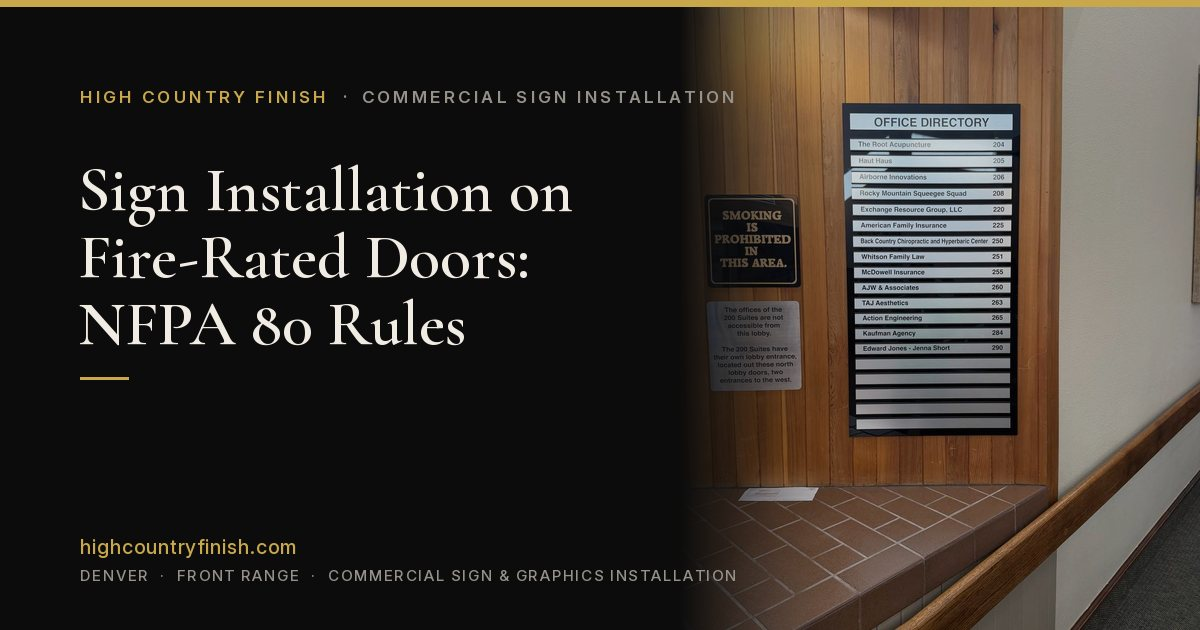
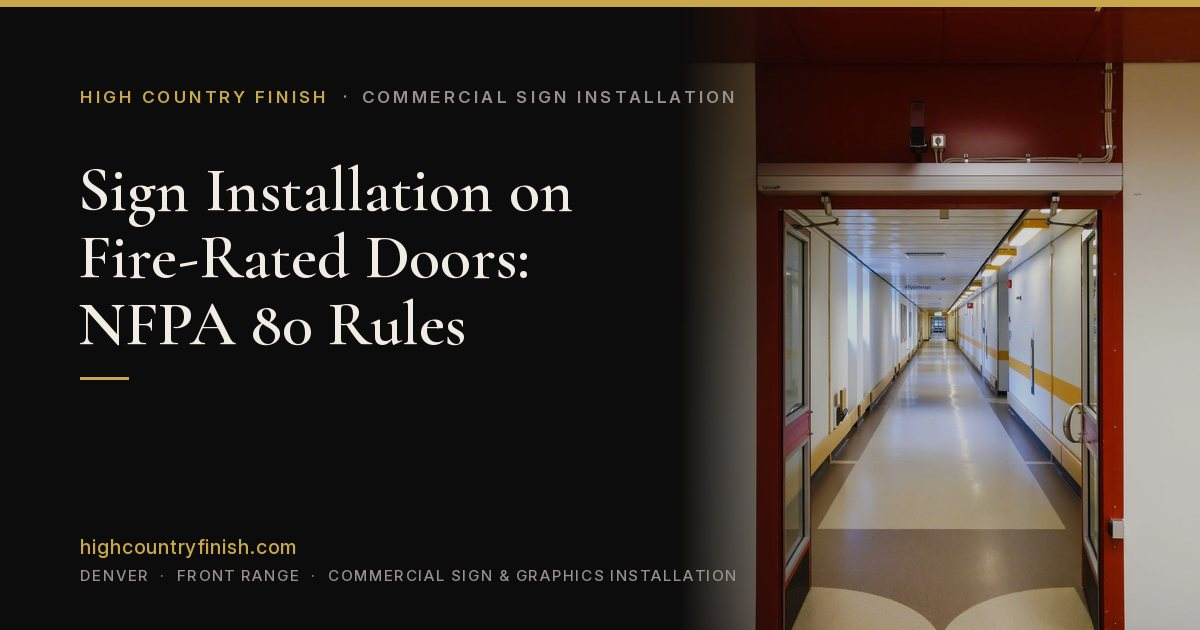
Use public-domain hospital and stairwell photos in the fire-door post
Replace the office-directory figure in the NFPA 80 fire door post with two
CC0 photos: a hospital corridor with cross-corridor doors (Norra Älvsborg
County Hospital, Sweden) as the lead figure and share card, and a stairwell
fire door with stair signage mounted on the wall beside it as a second
figure. Captions credit the photographers and label the photos as public
domain so they are not mistaken for portfolio work.

- images/hospital-corridor-fire-doors.jpg and stairwell-fire-door-signage.jpg
  with 480/800/full WebP variants
- images/og/post-fire-rated-doors.jpg regenerated from the hospital photo
- docs/IMAGE_CREDITS.md records sources, licenses and two reviewed alternates
- sitemap.xml regenerated (both figures added as image entries)

Claude-Session: https://claude.ai/code/session_01UP6HA74CZcYXjqbdAXmKWR

diff --git a/blog/sign-installation-on-fire-rated-doors.html b/blog/sign-installation-on-fire-rated-doors.html
@@ -293,8 +293,8 @@ article a.cta-button:hover { text-decoration: none; }
       <p>Healthcare is stricter for longer. Hospitals, surgery centers, and nursing facilities that answer to CMS follow the 2012 Life Safety Code, which references the 2010 edition of NFPA 80, so their doors are held to the adhesive-only, 5 percent rule regardless of what the city adopts. In every case, the fire marshal (the authority having jurisdiction) has the final word on anything unusual, and it is worth asking before the vinyl is printed rather than after.</p>
 
       <figure class="post-figure">
-        <picture><source type="image/webp" srcset="/images/webp/office-directory-480.webp 480w, /images/webp/office-directory-800.webp 800w, /images/webp/office-directory.webp 960w" sizes="(max-width: 768px) 100vw, 720px"/><img src="/images/office-directory.jpg" width="960" height="1280" alt="Office directory and informational signage installed in a Denver building lobby" loading="lazy"/></picture>
-        <figcaption>Informational signage in a Denver office lobby. On a rated door, the same signs would have to fit inside a 5 percent area budget and go on with adhesive.</figcaption>
+        <picture><source type="image/webp" srcset="/images/webp/hospital-corridor-fire-doors-480.webp 480w, /images/webp/hospital-corridor-fire-doors-800.webp 800w, /images/webp/hospital-corridor-fire-doors.webp 960w" sizes="(max-width: 768px) 100vw, 720px"/><img src="/images/hospital-corridor-fire-doors.jpg" width="960" height="1280" alt="Hospital corridor seen through a set of red-framed cross-corridor doors held open at Norra Älvsborg County Hospital in Sweden" loading="lazy"/></picture>
+        <figcaption>Cross-corridor doors at Norra Älvsborg County Hospital in Trollhättan, Sweden. Hospital corridors are divided into fire and smoke compartments by door sets like this one, which is why healthcare holds signage to the strictest edition of NFPA 80. Public domain photo (CC0) by Ann-Sophie Qvarnström via Flickr.</figcaption>
       </figure>
 
       <h2>What This Means for Common Requests</h2>
@@ -305,6 +305,11 @@ article a.cta-button:hover { text-decoration: none; }
       <li><strong>Stairwell identification and egress signage.</strong> These are code-required and usually mounted on the wall beside the door. Where a jurisdiction wants them on the door itself, the same attachment and area rules apply.</li>
       <li><strong>Elevator hoistway doors.</strong> A separate category governed by the elevator code and the elevator inspector. Vinyl elevator door wraps are common in commercial buildings, but get the building's elevator contractor to sign off before wrapping them.</li>
       </ul>
+
+      <figure class="post-figure">
+        <picture><source type="image/webp" srcset="/images/webp/stairwell-fire-door-signage-480.webp 480w, /images/webp/stairwell-fire-door-signage-800.webp 800w, /images/webp/stairwell-fire-door-signage.webp 1280w" sizes="(max-width: 768px) 100vw, 720px"/><img src="/images/stairwell-fire-door-signage.jpg" width="1280" height="720" alt="Hollow metal stairwell fire door with a closer and narrow vision panel, with East Stair and Level 2 signs mounted on the wall beside it" loading="lazy"/></picture>
+        <figcaption>A stairwell door in a commercial building, the type that is almost always fire-rated. The stair identification and floor-level signs sit on the wall beside the door, which keeps the door face clear and the signs outside the 5 percent budget entirely. Public domain photo (CC0) by Dan Keck via Flickr.</figcaption>
+      </figure>
 
       <h2>How We Install on Rated Doors</h2>
       <ol>

diff --git a/docs/IMAGE_CREDITS.md b/docs/IMAGE_CREDITS.md
@@ -1,0 +1,18 @@
+# Third-party image credits
+
+Every other photo on the site is High Country Finish and Repair CO's own work. The images below
+are public-domain photos used as illustrations. CC0 requires no attribution; the credit is kept
+here and in the caption as a courtesy and so nobody mistakes them for portfolio work.
+
+| File | Used on | Source | License | Photographer | Retrieved |
+|---|---|---|---|---|---|
+| `images/hospital-corridor-fire-doors.jpg` (+ WebP variants, and the share card `images/og/post-fire-rated-doors.jpg`) | `blog/sign-installation-on-fire-rated-doors.html` | https://www.flickr.com/photos/141281588@N05/54362509655 (Corridor for clinical physiology, NÄL hospital, Trollhättan, Sweden) | CC0 1.0 Public Domain Dedication | Ann-Sophie Qvarnström | 2026-09-17 |
+| `images/stairwell-fire-door-signage.jpg` (+ WebP variants) | `blog/sign-installation-on-fire-rated-doors.html` | https://www.flickr.com/photos/140641142@N05/36064209763 (EAST STAIR) | CC0 1.0 Public Domain Dedication | Dan Keck | 2026-09-17 |
+
+Alternates that were reviewed and are also free to use if the owner prefers them:
+
+- Modern steel double fire doors with red "keep closed" labels, Bandar Utama, Malaysia (CC0):
+  https://commons.wikimedia.org/wiki/File:Level_UC_1_Powerhouses,_Bandar_Utama_20260411_135608.jpg
+- Sliding metal fire door in the medical library of Fitzsimons General Hospital, Aurora, Colorado,
+  Historic American Buildings Survey, Library of Congress, black and white (public domain):
+  https://commons.wikimedia.org/wiki/File:Interior,_first_floor,_sliding_metal_door_separating_sections_of_the_medical_library._-_Fitzsimons_General_Hospital,_Infirmary,_Northwest_Corner_of_East_Bushnell_Avenue_and_HABS_COLO,1-AUR,2BR-23.tif
